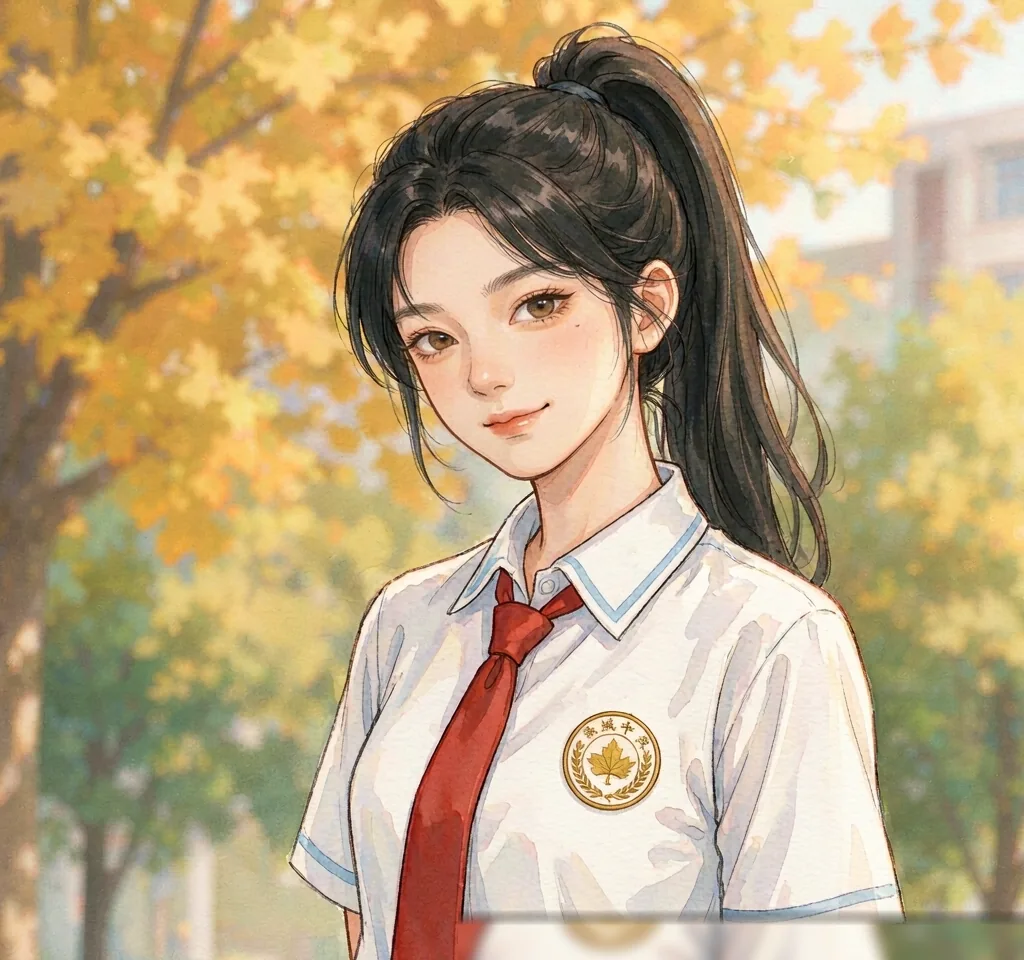
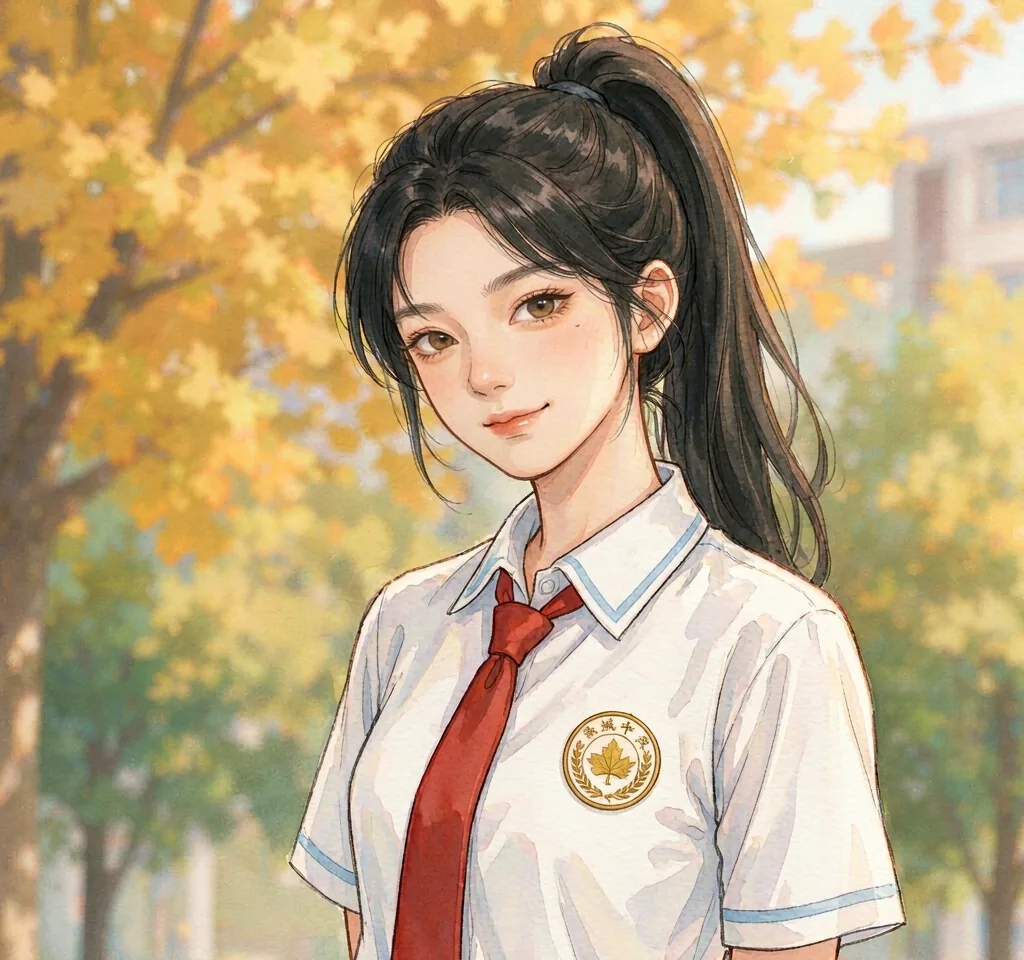
立绘返工：去水印改纯裁切（补丁留了截断线）+ 按作者意见重做 7 张（CACHE v42）
**去水印**：上一版 13 张用了「上方背景拉伸模糊 + 渐变 alpha」补水印，结果每张
右下角都留下一条可见的水平截断线（白余欢那张没补所以是干净的，被作者对比出来）。
水印实际只在底部约 50px 内，裁到 960 就能干净去除——全部改回纯裁切，与原有
三张立绘同手法。README 里记下这个教训：裁切优先，别打补丁。

**按作者意见重做 7 张**（同名覆盖，页面与数据零改动）：
- 杨梦寒：加细框眼镜（温婉学霸型）
- 白余欢：再胖一些（圆脸双下巴、身材明显偏胖）
- 顾池宴：三十二岁左右青年（原来太老）
- 叶渊：三十五岁左右青年医师（原来像五十岁）
- 林望舒：三十五岁左右青年工程师（原来太老）
- 肖灼：二十六岁左右、壮实肌肉分明（原来太老）
- 江枕默：三十六岁左右青年（原来太老）

立绘是同名覆盖，用户缓存里的旧图不会自更新，所以 sw.js CACHE v41 → v42
（activate 删旧缓存 → 重新 install 抓新图），否则作者反馈的这些问题在用户端
还要漂最多 7 天。

验证：右下角 17 格拼图逐格检查（无水印、无接缝）、本地急载 17/17 零破图、
列表页与详细页截图核对（眼镜/胖/年龄都到位）、e2e 34/34。

Changed region(s): [[0.4375, 0.9375, 1.0, 1.0]]

diff --git a/sw.js b/sw.js
@@ -19,7 +19,7 @@
  *      NETWORK_TIMEOUT（500ms），所以它们必须走缓存优先。
  *   3. /app/ 前缀（安装包、version.json）不拦截，直接交给网络
  */
-var CACHE = 'linyuan-v41';
+var CACHE = 'linyuan-v42';
 
 /**
  * 缓存条目的「自愈 TTL」：超过这个年龄的缓存命中，会在后台补一次刷新。

diff --git a/README.md b/README.md
@@ -134,8 +134,9 @@ node tools/make-characters.mjs     # 改完数据文件后跑这条
   保真度调低 + 显式区分是必须的——调高了生成出来就是参考人物的换头版。
 - **乔木 10 位长辈用文生图**：同一套画风描述词 + 各自身份着装（白大褂、西装、
   运动 Polo、风衣…）。
-- 生成后统一后处理：裁掉底部 64px（与水印带重合，原立绘当初也是这么去水印的）、
-  转 webp。水印位置不固定时用「上方干净背景拉伸模糊 + 渐变 alpha」补。
+- 生成后统一后处理：**裁掉底部 64px**（水印带就在底部约 50px 内，与原立绘当初
+  同手法）、转 webp。别用「模糊填充补水印」——补过的地方会留下一条可见的
+  水平截断线，作者一眼就能看出来；水印只要在底部 64px 内，裁切就是最干净的解。
 - 长辈立绘不与校徽对齐（他们没有校服），学生立绘的校徽由模型继承自参考图。
 
 ## 改了阅读器之后：跑一遍端到端测试
